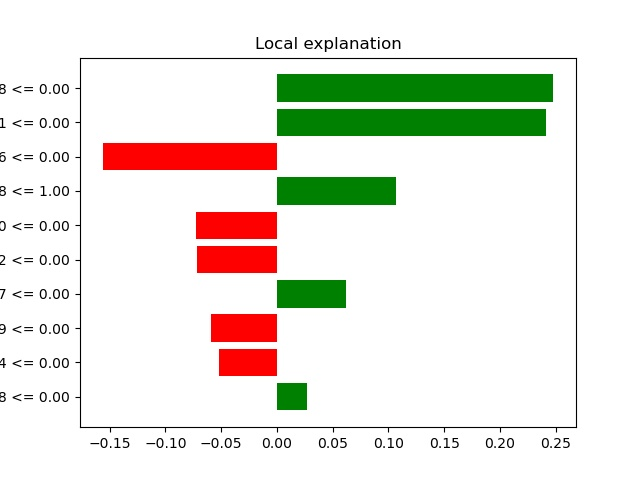
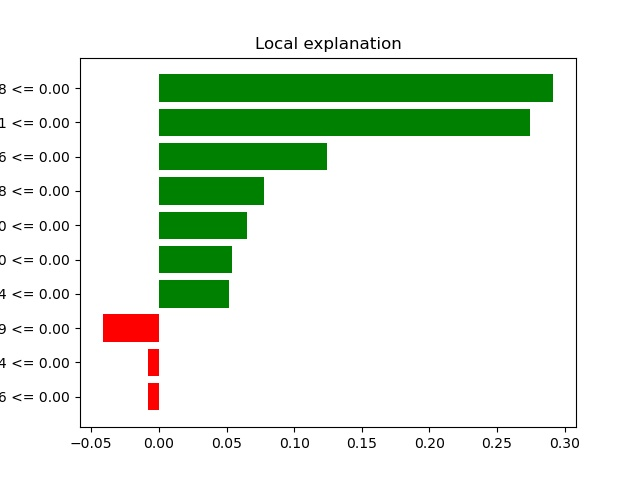
update: removed the summary plotting, added new list to collect all the results from explainable methods (LIME and SHAP)

diff --git a/src/lg_boost.py b/src/lg_boost.py
@@ -61,7 +61,6 @@ def light_boost_utility(train_x, trainy,
     #cv = RepeatedKFold(n_splits=10, n_repeats=3, random_state=1)
 
     model.fit(train_x, trainy, eval_set=[(test_x, testy), (train_x, trainy)], verbose=20, eval_metric='logloss')
-
     lg_exp = TreeExplainer(model)
     #lg_exp = shap.Explainer(model)
     #lg_sv = explainer(train_x)
@@ -70,24 +69,24 @@ def light_boost_utility(train_x, trainy,
     lg_ev = lg_exp.expected_value
 
     # LIME:
-   # lg_exp_lime = lime_tabular.LimeTabularExplainer(
-   #     training_data = np.array(X_train),
-   #     feature_names = X_train.columns,
-   #     class_names=['Repair', 'No Repair'],
-   #     mode='regression'
-   # )
+    lg_exp_lime = lime_tabular.LimeTabularExplainer(
+        training_data = np.array(X_train),
+        feature_names = X_train.columns,
+        class_names=['Repair', 'No Repair'],
+        mode='regression'
+    )
 
-   # ## Explaining the instances using LIME
-   # instance_exp = lg_exp_lime.explain_instance(
-   #     data_row = X_train.values[4],
-   #     predict_fn = model.predict
-   # )
+    ## Explaining the instances using LIME
+    instance_exp = lg_exp_lime.explain_instance(
+        data_row = X_train.values[4],
+        predict_fn = model.predict
+    )
 
     fig = instance_exp.as_pyplot_figure()
     fig.savefig('lg_lime_report.jpg')
 
-    print("Shape of the RF values:", lg_sv[0])
-    print("Shape of the Light boost Shap Values")
+    #print("Shape of the RF values:", lg_sv[0])
+    #print("Shape of the Light boost Shap Values")
 
     summary_plot(lg_sv, train_x)
     #shap.force_plot(explainer.expected_value, shap_values[0, :], X.iloc[0, :])
@@ -105,7 +104,7 @@ def light_boost_utility(train_x, trainy,
 
     #fpr, tpr, threshold = metrics.roc_curve(testy, prediction, pos_label=2)
     #_auc = metrics.auc(fpr, tpr)
-    return _acc, _cm, _cr, kappa
+    return _acc, _cm, _cr, kappa, instance_exp, lg_sv
 
 def main():
     X, y, cols = preprocess()
@@ -131,19 +130,20 @@ def main():
         # structure numbers
         #gacc, gcm, gcr, gkappa, gmodel = xgb_utility(trainX, trainy,
         #                                          testX, testy, cols)
-        acc, cm, cr, kappa = light_boost_utility(trainX, trainy, testX, testy, cols)
+        acc, cm, cr, kappa, lg_lime, lg_sv = light_boost_utility(trainX, trainy, testX, testy, cols)
 
         performance['accuracy'].append(acc)
         performance['kappa'].append(kappa)
         performance['confusion_matrix'].append(cm)
         performance['classification_report'].append(cr)
+        performance['shape_values'].append(lg_sv)
+        performance['lime_val'].append(lg_lime)
 #
     print('Performance metrics:')
     print(performance['accuracy'])
     print(np.mean(performance['accuracy']))
     print(performance['kappa'])
     print(np.mean(performance['kappa']))
-
 
     return performance
 

diff --git a/src/xg_boost.py b/src/xg_boost.py
@@ -76,20 +76,17 @@ def xgb_utility(train_x, trainy,
         kappa: Kappa Value
         model: Random Forest Model
     """
-    # New dataframe
+    # Train model
     X_train = pd.DataFrame(train_x)
-    #print(X_train)
-    #print(X_train.dtypes)
 
     model = XGBRegressor(objective='reg:squarederror')
     #cv = RepeatedKFold(n_splits=10, n_repeats=3, random_state=1)
+
     model.fit(train_x, trainy)
     #model.fit(train_x, trainy)
+
+    # SHAP
     xgb_exp = TreeExplainer(model)
-
-    #xgb_sv = np.array(xgb_exp.shap_values(train_x))
-    #xgb_ev = np.array(xgb_exp.expected_value)
-
     xgb_sv = xgb_exp.shap_values(train_x)
     xgb_ev = xgb_exp.expected_value
 
@@ -101,20 +98,18 @@ def xgb_utility(train_x, trainy,
         mode='regression'
     )
 
-    ## Explaining the instances using LIME
+    # Explaining the instances using LIME
     instance_exp = xgb_exp_lime.explain_instance(
         data_row = X_train.values[4],
         predict_fn = model.predict
     )
 
     fig = instance_exp.as_pyplot_figure()
-    fig.savefig('xgb_lime_report.jpg')
-
+    #fig.savefig('xgb_lime_report.jpg')
     #xgb_boost_lime.show_in_notebook(show_table=True)
     # RF
     print("Shape of the RF values:", xgb_sv[0])
-    summary_plot(xgb_sv, train_x)
-
+    #summary_plot(xgb_sv, X_train)
     print("Shape of the XGB Shap values:", xgb_sv.shape)
 
     #Predictions
@@ -131,7 +126,7 @@ def xgb_utility(train_x, trainy,
                               weights='quadratic')
     fpr, tpr, threshold = roc_curve(testy, prediction, pos_label=2)
     _auc = auc(fpr, tpr)
-    return _acc, _cm, _cr, _kappa, _auc
+    return _acc, _cm, _cr, _kappa, _auc, instance_exp, xgb_sv
 
 def main():
     X, y, cols = preprocess()
@@ -154,14 +149,16 @@ def main():
     for foldTrainX, foldTestX in kfold.split(X):
         trainX, trainy, testX, testy = X[foldTrainX], y[foldTrainX], \
                                            X[foldTestX], y[foldTestX]
-        # Check the distribution
         # structure numbers
-        acc, cm, cr, kappa, auc = xgb_utility(trainX, trainy, testX, testy, cols)
+
+        acc, cm, cr, kappa, auc, xgb_lime, xgb_sv = xgb_utility(trainX, trainy, testX, testy, cols)
         performance['accuracy'].append(acc)
         performance['kappa'].append(kappa)
         performance['confusion_matrix'].append(cm)
         performance['classification_report'].append(cr)
-
+        performance['shape_values'].append(xgb_sv)
+        performance['lime_val'].append(xgb_lime)
+#
     # Performance metrics
     print('Performance metrics:')
     print(performance['accuracy'])
